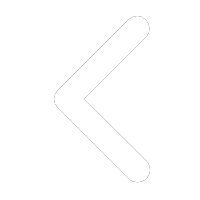
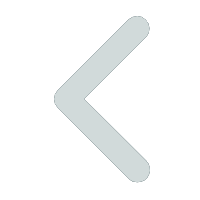
文字对齐和箭头换色

Changed region(s): [[0.27, 0.06, 0.75, 0.93]]

diff --git a/src/main/webapp/create.html b/src/main/webapp/create.html
@@ -72,16 +72,16 @@
 					<input type="file" value="导入" class="import">
 					<!-- <input type="button" οnclick="UpladFile()" value="导入"  class="importBut"> -->
 					<div class="project_name">
-						<span class="prjName">项目名称：</span>
+						<span class="prjName">项目名称</span>
 						<input type="text" maxlength="20" class="inputName">
 					</div>
 					<div class="introduction">
-						<span class="introduce">简&nbsp;&nbsp;介 ：</span>
+						<span class="introduce">简介</span>
 						<textarea class="introduce_input"></textarea>
 						<span class="sum">0/200</span>
 					</div>
 					<div class="choice">
-						<span class="open"><span>是否公开:</span>
+						<span class="open"><span>是否公开：</span>
 							<div class="onOffBorder">
 								<div class="onOffRod">x</div>
 							</div>

diff --git a/src/main/webapp/css/create.css b/src/main/webapp/css/create.css
@@ -490,7 +490,7 @@ body .mainBox {
     padding-left: 10px;
     font-size: 18px;
     height: 40px;
-    width: 400px;
+    width: 405px;
     border: solid #999;
     border-radius: 10px;
     vertical-align: middle;
@@ -499,6 +499,10 @@ body .mainBox {
 
 .mainBox .Box .est_bigBox .project_name span {
     /* float: left; */
+    display: inline-block;
+    width: 100px;
+    margin-right: 5px;
+    text-align-last: justify;
     vertical-align: middle;
 }
 
@@ -532,8 +536,9 @@ body .mainBox {
 
 .mainBox .Box .est_bigBox .introduce {
     float: left;
-    letter-spacing: 4px;
-    padding-left: 3px;
+    width: 100px;
+    margin-right: 5px;
+    text-align-last: justify;
 }
 
 /* 选择 */

diff --git a/src/main/webapp/js/index.js b/src/main/webapp/js/index.js
@@ -294,10 +294,10 @@ shareBox.addEventListener("click", function () {
 });
 // 点击参加项目
 personalBox.addEventListener("click", function () {
-    personalBox.style.backgroundColor = "#E6EEF1";
+    personalBox.style.backgroundColor = "#D1DADA";
     personalBox.style.color = "#214B5B";
     shareBox.style.backgroundColor = "";
-    shareBox.style.color = "#fff";
+    shareBox.style.color = "#214B5B";
     personalNav.style.display = "block";
     shareNav.style.display = "none";
     projectSize(personalNav);
